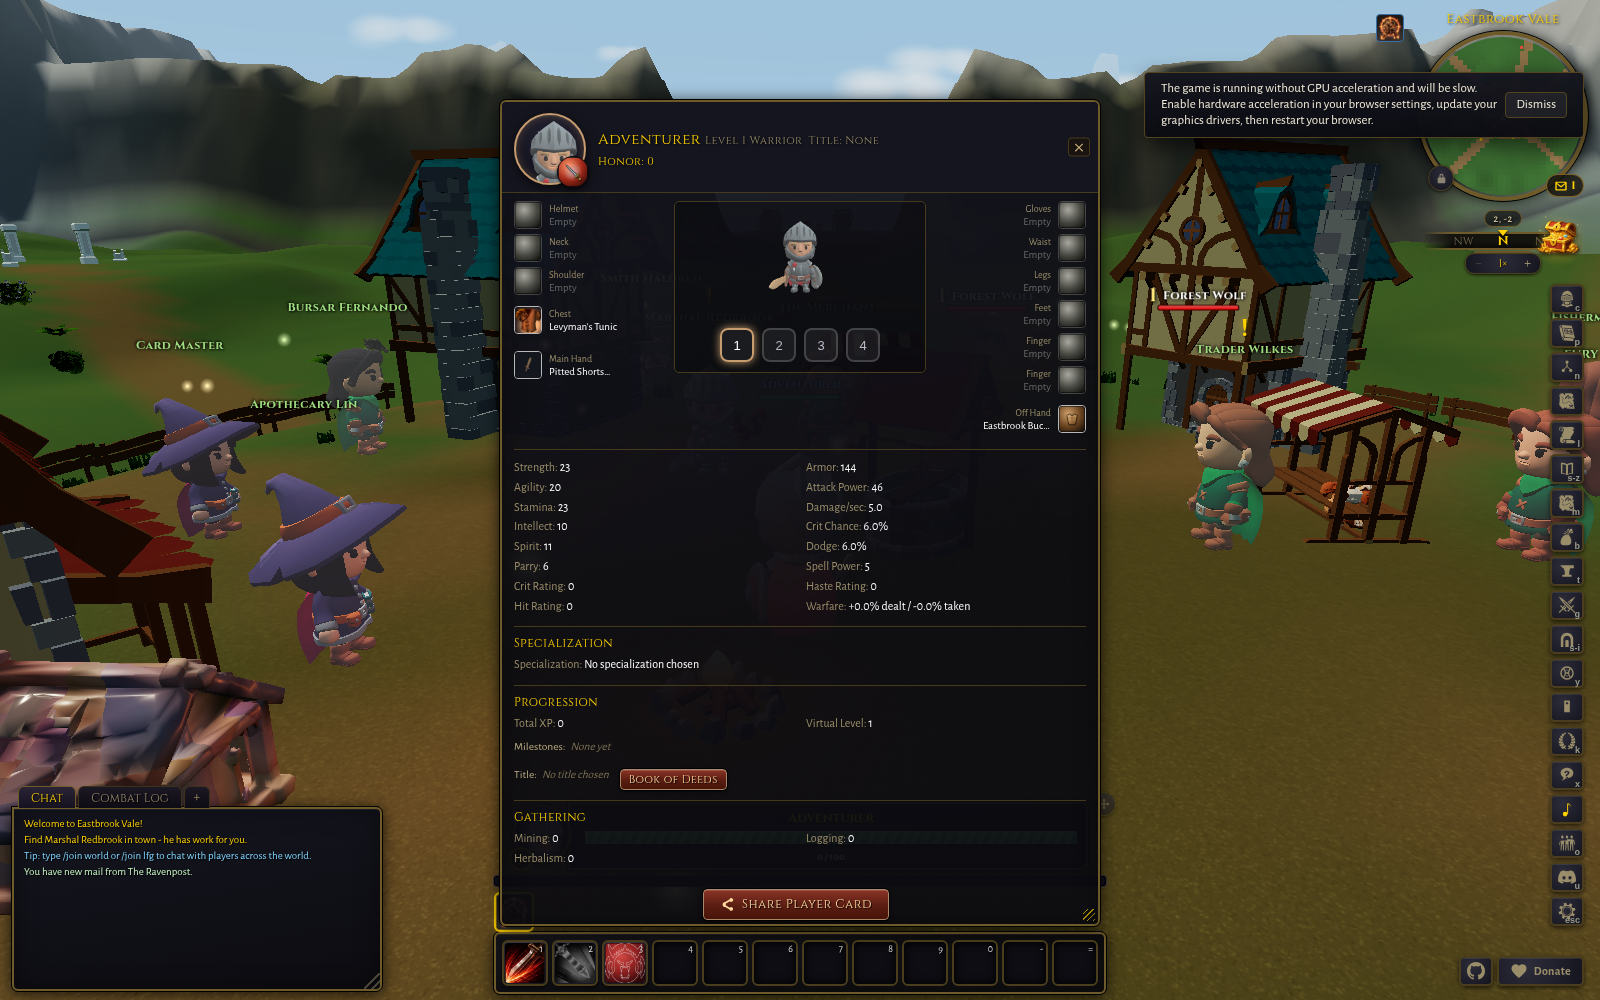
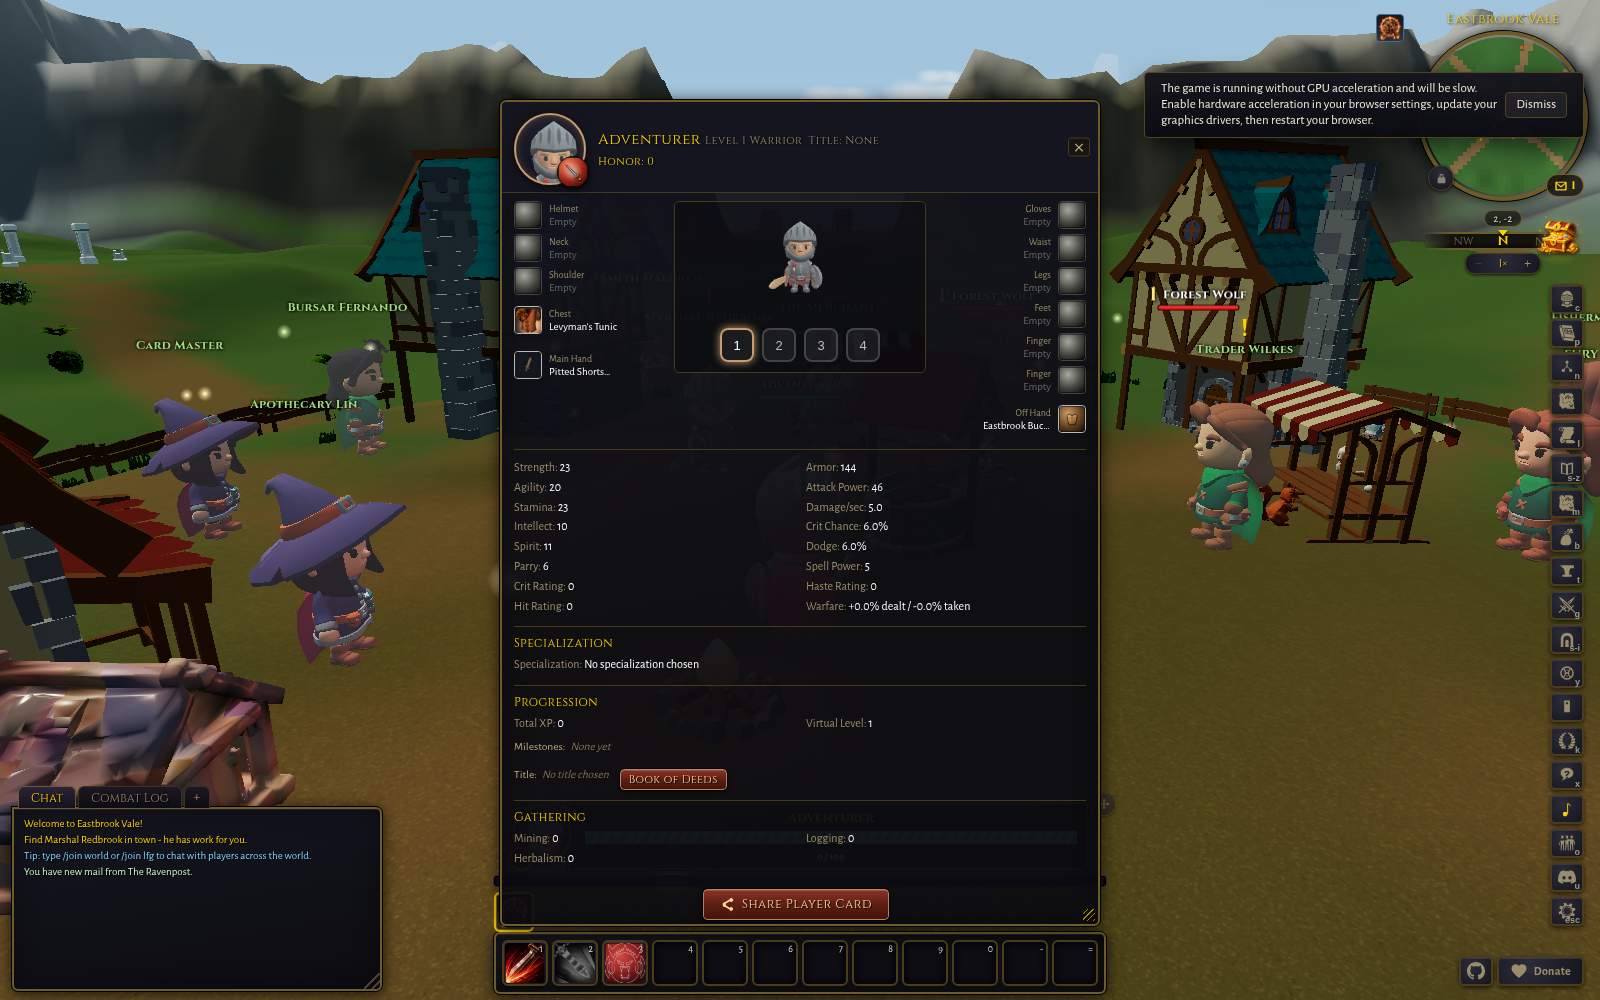
feat(ui): enlarge the character model preview and fix mobile screenshot crop
The 3D model panel between the equip columns stayed pinned to its old
172px minimum height even after the window widened, leaving it small and
off-center in the new landscape shape. Stretch the paperdoll row so the
model panel matches the equip columns' height and give it the dominant
flex share of the row's width (equip columns stay fixed-width either side),
so it now reads as the focal element the paperdoll grammar intends.

Also recaptures every screenshot in this PR: the prior mobile shots used a
CDP device-metrics override without a matching page.screenshot clip, so
puppeteer fell back to its internal default viewport and the captures came
out cropped.

diff --git a/src/styles/components.css b/src/styles/components.css
@@ -1047,7 +1047,7 @@
   .paperdoll {
     display: flex;
     gap: 10px;
-    align-items: flex-start;
+    align-items: stretch;
   }
   /* Groups .char-stats plus every .char-progression block (talent summary,
      progression, gathering) into a two-column layout so a wide window reads
@@ -1094,10 +1094,14 @@
     overflow: hidden;
     text-overflow: ellipsis;
   }
+  /* flex-basis 0 with a generous flex-grow gives the 3D preview the dominant
+     share of the paperdoll row's width on a wide window (the equip columns
+     stay fixed-width either side), and align-items: stretch above lets it
+     take the full row height instead of the old 172px minimum. */
   .char-model-panel {
-    flex: 1;
+    flex: 3 1 0;
     min-width: 0;
-    min-height: 172px;
+    min-height: 340px;
     border: 1px solid #463a1c;
     border-radius: 5px;
     background: rgba(0, 0, 0, 0.28);
